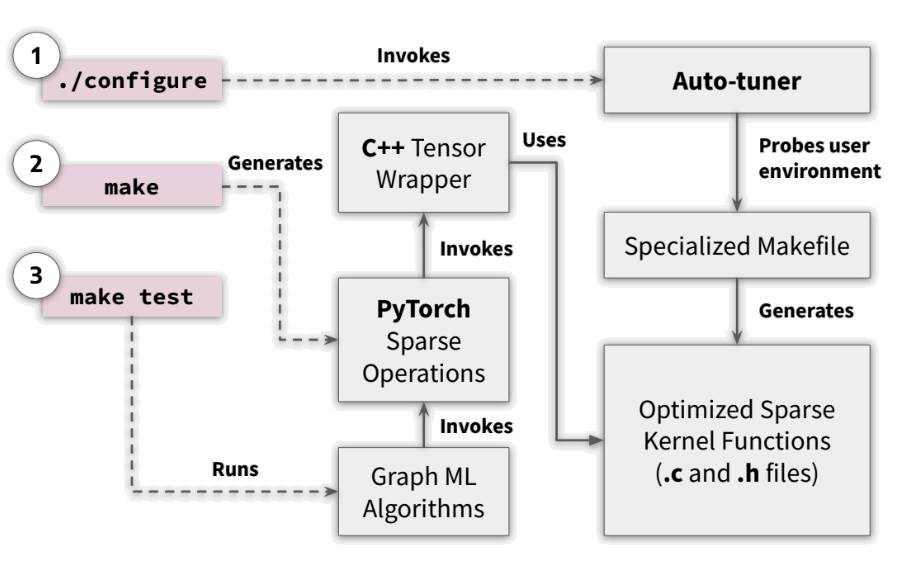
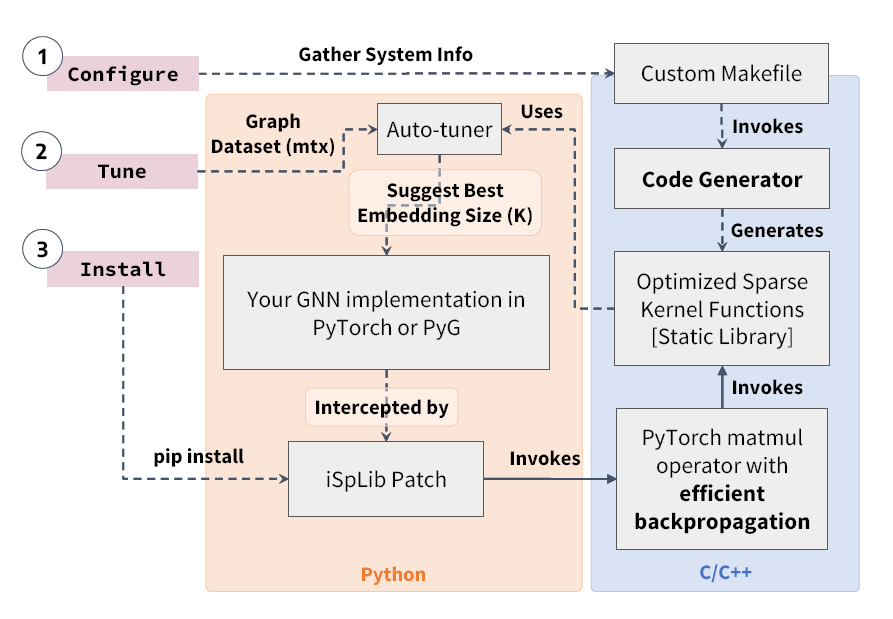
Readme/patch/autotuner updated

diff --git a/autotuner/findbestk.py b/autotuner/findbestk.py
@@ -1,7 +1,7 @@
 import subprocess
 import sys
 from tqdm import tqdm
-# dataset = sys.argv[1]
+dataset = sys.argv[1]
 # kernel = sys.argv[2]
 kernel = 'spmm'
 
@@ -28,21 +28,21 @@ kernel = 'spmm'
 
 # for k in tqdm(range(16, 513, 16)):
 # for k in tqdm([64]):
-for dataset in ['amazon_products', 'ogbn_mag', 'ogbn_protein', 'reddit', 'ogbn_product', 'reddit2']:
-    print(f'==For dataset: {dataset}===')
-    out = []
-    for k in tqdm([16, 32, 64, 128, 256, 512, 1024]):
-        a = f'../bin/xsOptFusedMMtime_{kernel}_pt'
-        b = f"../dataset/{dataset}.mtx"
-        output = subprocess.check_output([a, "-input", b, "-K", f"{k}", "skHd", "1"]).decode('utf-8')
-        out += [output]
-        # out += [(float(output.split(',')[-2]), k)]d
-    for i in out:
-        print(i, end='')
-    
-    print('======')
-    print('')
-    print('')
+# for dataset in ['amazon_products', 'ogbn_mag', 'ogbn_protein', 'reddit', 'ogbn_product', 'reddit2']:
+print(f'==For dataset: {dataset}===')
+out = []
+for k in tqdm([16, 32, 64, 128, 256, 512, 1024]):
+    a = f'../bin/xsOptFusedMMtime_{kernel}_pt'
+    b = f"../dataset/{dataset}.mtx"
+    output = subprocess.check_output([a, "-input", b, "-K", f"{k}", "skHd", "1"]).decode('utf-8')
+    out += [output]
+    # out += [(float(output.split(',')[-2]), k)]d
+for i in out:
+    print(i, end='')
+
+print('======')
+print('')
+print('')
 
 
 # python findbestk.py ogbn-prot spmm > log/out_ogbn-prot_spmm.txt

diff --git a/isplib/__init__.py b/isplib/__init__.py
@@ -6,7 +6,11 @@ import torch
 import torch_sparse
 
 from torch_sparse import SparseTensor, matmul
-import torch_geometric.typing
+
+try:
+	import torch_geometric.typing
+except Exception:
+	pass
 
 __version__ = '0.2.0'
 
@@ -139,7 +143,21 @@ class iSpLibPlugin:
 				return None
 			
 			return out
-			
+		
+		try:
+			try:
+				iSpLibPlugin.cache['WITH_PT2'] = torch_geometric.typing.WITH_PT2
+			except Exception:
+				pass
+			try:
+				iSpLibPlugin.cache['WITH_PT20'] = torch_geometric.typing.WITH_PT20
+			except Exception:
+				pass
+			torch_geometric.typing.WITH_PT2 = False
+			torch_geometric.typing.WITH_PT20 = False
+		except Exception:
+			pass
+		
 		iSpLibPlugin.backup.append(torch_sparse.matmul)
 		iSpLibPlugin.backup.append(torch.sparse.mm)
 		# iSpLibPlugin.backup.append(torch_geometric.typing.WITH_PT2)
@@ -163,6 +181,12 @@ class iSpLibPlugin:
 		#   torch_geometric.typing.WITH_PT2 = iSpLibPlugin.backup.pop()
 			torch.sparse.mm = iSpLibPlugin.backup.pop()
 			torch_sparse.matmul = iSpLibPlugin.backup.pop()
+
+			try:
+				torch_geometric.typing.WITH_PT2 = iSpLibPlugin.cache['WITH_PT2']
+				torch_geometric.typing.WITH_PT20 = iSpLibPlugin.cache['WITH_PT20']
+			except Exception:
+				pass
 		#   print('<< Autotuner deactivated')
 
 def isplib_autotune(fn):

diff --git a/tests/cpu/gcn-sparse.py b/tests/cpu/gcn-sparse.py
@@ -1,6 +1,6 @@
 # python gcn-sparse.py reddit isplib
 
-EPOCH_COUNT = 100
+EPOCH_COUNT = 2
 EMBEDDING_SIZE = 32
 
 PRINT_TABLE = False
@@ -26,7 +26,7 @@ if len(sys.argv) < 2:
    print('Required 2 arguments: dataset and mode (pt2, pt1, or isplib)')
    exit()
 
-if sys.argv[2] in ['pt1', 'isplib']:
+if sys.argv[2] in ['pt1']:
   import torch_geometric.typing
   torch_geometric.typing.WITH_PT2 = False
   torch_geometric.typing.WITH_PT20 = False
@@ -34,7 +34,6 @@ if sys.argv[2] in ['pt1', 'isplib']:
 if sys.argv[2] == 'isplib':
   from isplib import * 
   iSpLibPlugin.patch_pyg()
-
 
 
 print(f'Running GCN, Epoch: {EPOCH_COUNT}, Embedding: {EMBEDDING_SIZE}, Dataset: {sys.argv[1]}, Mode: {sys.argv[2]}')
@@ -128,3 +127,5 @@ def run_all():
   print()
 
 run_all()
+
+iSpLibPlugin.unpatch_pyg()

diff --git a/README.md b/README.md
@@ -1,5 +1,5 @@
 # iSpLib - An Intelligent Sparse Library
-
+---
 
 iSpLib is an accelerated sparse kernel library with PyTorch interface. This library has an auto-tuner which generates optimized custom sparse kernels based on the user environment. The goal of this library is to provide efficient sparse operations for Graph Neural Network implementations. Currently it has support for CPU-based efficient Sparse Dense Matrix Multiplication (spmm-sum only) with autograd.
 
@@ -14,78 +14,140 @@ Make >= 4.4
 GCC >= 10.1 (Support for C++ >= 14)
 OpenMP >= 4.5
 Python >= 3.7
-NumPy >= 1.21 (Or, Anaconda environment)
+PyTorch >= 2.0
+torch-scatter torch-sparse [PyTorch compatible] 
 ```
 
+### Python Environment Setup
 
-## Installation
+**It is recommended to create a virtual environment**
 
-To install the package, run the following commands:
-
-- `git clone https://github.com/ICICLE-ai/iSpLib.git`: To clone this repository.
-- `./configure`: To download and run the auto-tuner. This is a pre-requisite for the installation.
-- Create a virtualenv as the packages might conflict.
-- Install the dependencies `pip install torch torchvision scikit-learn torch-scatter`.
-- `make`: To install the library.
-- Finally install custom version of torch-geometric `pip install git+https://github.com/gamparohit/pytorch_geometric.git`
-
-## Troubleshoot
-
-- If `make` command exits with unknown error message, try running `pip3 install -e .` instead.
-- If you are having trouble installing torch-scatter, install it with -f flag and torch version. 
+Torch-sparse and torch-scatter should be compatible with current PyTorch version.
 
 ```
 import torch
 print(torch.__version__)
-!pip install torch-scatter -f https://data.pyg.org/whl/torch-{torch.__version__}.html
+!pip install torch-scatter torch-sparse -f https://data.pyg.org/whl/torch-{torch.__version__}.html
 ```
 
-## Convention and Usage
+## Installation
 
-The current iSpLib has both regular and optimized SpMM operation for comparison purpose. The default operation is non-optimized. To use the optimized version, use the following code snippet for running the GNN model:
+To install the iSpLib package, use the follwing steps:
 
 ```
-import builtins
-builtins.FUSEDMM = True
+git clone https://github.com/HipGraph/iSpLib.git
+cd iSpLib
+./configure
+make
 ```
 
-FusedMM method is used as the optimized sparse kernel and it is generated when `./configure` command is run. See details here: [FusedMM Method](https://arxiv.org/abs/2011.06391).
+## Testing
 
-**Note: If you are not using the optimized kernel, you will still have to explicitly mention `builtins.FUSEDMM = False` in the code, otherwise it will raise an error.**
+```
+cd ./tests/cpu/
+python gcn-sparse.py reddit isplib
+```
+
+
+
+## PyTorch Geometric Patch
+[Supported up to version PyG 2.4.0 and tested on PyTorch 2.0 to 2.1]
+
+If you have an existing PyG implementation of a GNN that uses SpMM, you can use iSpLib patch function to divert SpMM calls to iSpLib. 
+
+**Make sure to convert your PyG dataset into TorchSparse format**
+
+Example:
+```
+from torch_geometric.datasets import Reddit
+import torch_geometric.transforms as T
+
+dataset = Reddit(root='path/to/reddit', transform=T.ToSparseTensor())
+```
+
+To patch, use the following two lines at the top of your implementation:
+
+```
+from isplib import * 
+iSpLibPlugin.patch_pyg()
+
+# beginning of the rest of your PyG code
+
+```
+
+To unpatch, use `iSpLibPlugin.unpatch_pyg()`. You can also use the decorator function `@isplib_autotune` to patch any specific function.
+
+## SpMM Function
+
+You can also use the standalone SpMM (matmul) function. The best way to use it through torch_sparse. **Make sure to convert your PyG dataset into TorchSparse format (See above section for example conversion code)**
+
+```
+from isplib import * 
+iSpLibPlugin.patch_pyg()
+import torch_sparse
+
+# ...
+torch_sparse.matmul(A, B, 'sum') 
+
+# A = Sparse Matrix in SparseTensor format from torch_sparse
+# B = Dense Matrix, 2-d PyTorch tensor
+# aggr = 'sum', 'mean', 'max', or 'min'; default = 'sum'
+
+```
+
+## Autotuning
+
+iSpLib's autotuner can suggest the best possible embedding size (K value) for your graph dataset. You'll need to have your graph adj_matrix into mtx format. In order to perform autotuning, use the following commands:
+
+```
+cd autotuner
+git clone https://github.com/HipGraph/FusedMM.git
+cd FusedMM/
+./configure
+make
+# Now copy your dataset mtx file into ./autotuner/FusedMM/dataset folder
+cp ../findbestk.py ./test/
+cd ./test
+python findbestk.py your_mtx_filename > autotune.txt
+```
+The autotune.txt will have a table showing the speedups for different embedding sizes (K). You can choose the best K based on the highest speedup.
+
+### Converting a PyG dataset to mtx format 
+In order to generate tuning graph, first convert your graph's adj_matrix into mtx format. 
+
+Sample code to generate mtx file:
+```
+# A fast mtx generater:
+# !pip install fast_matrix_market
+
+
+import scipy.sparse as sparse
+import fast_matrix_market as fmm
+
+# Here dataset is a PyG dataset with SparseTensor. 
+# See above section for example conversion code.
+def dataset_to_mtx(dataset, filename):
+    coo = dataset.adj_t.to_torch_sparse_coo_tensor()
+    coo = coo.coalesce()
+    i = coo.indices()[0] 
+    j = coo.indices()[1]
+    v = coo.values()
+    shape = coo.size()
+    coo_sci = sparse.coo_matrix((v,(i,j)),shape=(shape[0], shape[1]))
+    fmm.mmwrite(filename,coo_sci)
+
+
+dataset_to_mtx(b, "your_dataset.mtx")
+```
+
+## Troubleshoot
+
+- If `make` command exits with unknown error message, try running `pip3 install -e .` instead.
+- Common installation errors can be avoided by making sure that PyTorch version is compatible with current CUDA version (if any).
 
 ## Performance and Testing
 
-When compared to PyTorch Sparse, a 2-layer GCN implemention with 10 epochs is typically-
-
-- **2.5x** faster on Cora dataset
-- **2x** faster on Reddit dataset
-
-[Note: The speed-up varies largly depending on the system condition]
-
-To run the test code, use the command: `make test`. This runs the python script in `tests/GCN.py` and prints out the speed-up along with the accuracy. See `tests/Expected_GCN_output.txt` for reference.
-
-### SpMM Example
-
-The SpMM operation can also be used directly to multiply two compatible matrices. Following is an example of a sparse and dense matrix multiplication:
-
-```
-import builtins
-from isplib.matmul import *
-from isplib.tensor import SparseTensor
-from scipy.sparse import coo_matrix
-import torch 
-
-index = torch.tensor([[0, 0, 1, 2, 2],
-                      [0, 2, 1, 0, 1]])
-value = torch.Tensor([1, 2, 4, 1, 3])
-matrix = torch.Tensor([[90, 4], [2, 5], [3, 6]])
-
-a = SparseTensor.from_scipy(coo_matrix((value, index), shape=(3, 3)))
-b = matrix
-builtins.FUSEDMM = True
-print(spmm_sum(a, b))
-```
-
+We observed significant performance improvements when iSpLib was integrated with PyG, resulting in a GNN training speedup of up to 27x for GCN, 12x for GraphSAGE-sum, 8x for GraphSAGE-mean, and 18x for Graph Isomorphism Network (GIN).
 
 ## License
 iSpLib is licensed under the https://opensource.org/licenses/BSD-3-Clause
